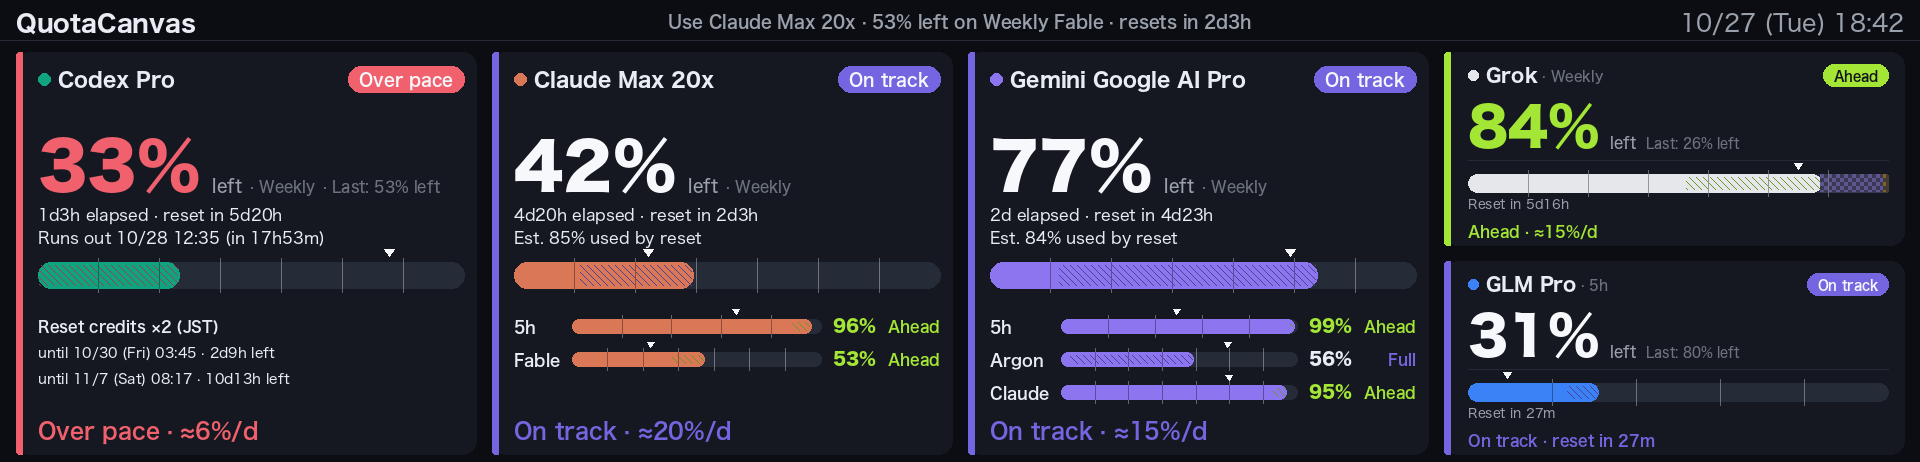
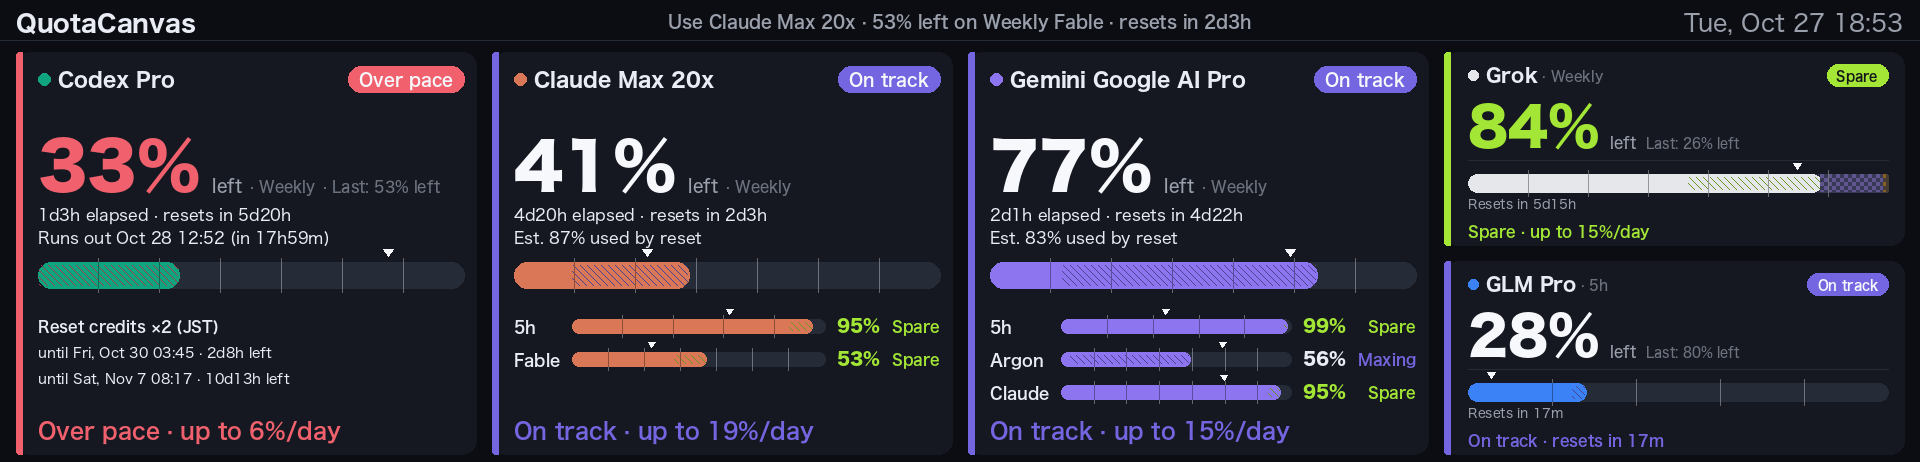
英語表示の状態名・日付・アドバイスを、英語圏の読み手に誤解されない表記にする
変更理由:
英語表示に日本語からの直訳が残っていた。「余裕あり」の Ahead は英語では「ペースより先行＝使いすぎ」と
逆に読まれうる。「使い切り」の Full は「満杯・上限到達」と読まれる。日付の 11/7 (Sat) はイギリス式では
7 月 11 日と読まれ、≈6%/d は「1 日 6% までに抑える」という上限の意味が伝わらなかった。

変更内容:
- 状態名: Ahead → Spare、Full use / Full → Maxing out / Maxing
- reset in / Reset in → resets in / Resets in（ヘッダーの表記とそろえる）
- アドバイス: ≈6%/d → up to 6%/day、1d 12% → 12%/day、"last 12% is free" / "12% free" → "12% unused"
- 日付: 英語のときだけ "Fri, Oct 30 03:45" / "Oct 28 12:35" 形式（月名と書式を locale の [month] / [date] に持たせ、
  日本語は従来と同じ "10/30 (金) 03:45" を出す）
- 英語の日付と月名のテストを追加
- README の表示例（docs/images/sample-ja.png / sample-en.png）を同じ時刻で描き直し

検証:
- .venv/bin/python -m pytest -q（別作業中の tests/test_routing_hook.py を除く）: 863 件成功、2 件スキップ
- scripts/preview_render.py --lang en の全パターンと実データの描画で、はみ出し・重なりがないことを目視確認
- GPT-6.1 Terra が実装し、GLM-5.3 がレビュー（日本語表示が以前とバイト単位で同じことを含め問題なし。
  軽微な指摘 1 件「up to ≈」の二重表現を修正）

diff --git a/tests/test_i18n_render.py b/tests/test_i18n_render.py
@@ -18,7 +18,8 @@ from quotacanvas import i18n
 from quotacanvas.models import (Pace, PaceStatus, ProviderUsage, ResetCredit,
                                 Window)
 from quotacanvas.pacing import compute_pace
-from quotacanvas.render import (PanelSpec, advice_text, render, render_error)
+from quotacanvas.render import (PanelSpec, _fmt_clock, _fmt_dt, _fmt_dt_short,
+                                _fmt_time_short, advice_text, render, render_error)
 
 NOW = datetime(2026, 10, 24, 9, 0, 0, tzinfo=timezone.utc)
 NOW_L = NOW.astimezone()
@@ -134,6 +135,35 @@ def test_en_advice_texts_have_no_japanese():
     assert len(texts) == 140   # 全 7 ステータス × 2 枠 × 5 状態 × compact 2
     leaked = sorted({s for s in texts if _has_japanese(s)})
     assert leaked == [], "en の advice に日本語が混ざっている: %s" % leaked
+
+
+def test_dates_follow_display_language(monkeypatch):
+    monkeypatch.setattr("quotacanvas.render._local", lambda dt: dt)
+    monkeypatch.setattr(i18n, "_current", "en")
+    dt = datetime(2026, 10, 30, 3, 45, tzinfo=timezone.utc)
+    assert _fmt_clock(dt) == _fmt_dt(dt) == "Fri, Oct 30 03:45"
+    assert _fmt_dt_short(dt) == "Oct 30 03:45"
+    assert _fmt_time_short(dt, dt - timedelta(days=1)) == "Oct 30 03:45"
+    assert _fmt_time_short(dt, dt) == "03:45"
+    assert _fmt_dt(datetime(2026, 11, 7, 3, 45)) == "Sat, Nov 7 03:45"
+    assert [_fmt_dt_short(datetime(2026, month, 1)).split()[0]
+            for month in range(1, 13)] == [
+                "Jan", "Feb", "Mar", "Apr", "May", "Jun", "Jul", "Aug",
+                "Sep", "Oct", "Nov", "Dec"]
+    i18n.set_language("ja")
+    assert _fmt_clock(dt) == _fmt_dt(dt) == "10/30 (金) 03:45"
+    assert _fmt_dt_short(dt) == "10/30 03:45"
+
+
+def test_en_status_and_advice_wording(monkeypatch):
+    monkeypatch.setattr(i18n, "_current", "en")
+    assert i18n.t("render.badge.spare") == "Spare"
+    assert i18n.t("render.badge.tight") == "Maxing out"
+    assert i18n.t("render.badge_short.fresh") == "Spare"
+    assert i18n.t("render.badge_short.tight") == "Maxing"
+    assert i18n.t("render.advice.compact_per_day", pct=6) == "up to 6%/day"
+    assert i18n.t("render.advice.exhausted_reset", span="3h") == \
+        "Limit hit · resets in 3h"
 
 
 def test_ja_advice_texts_are_japanese_not_keys():

diff --git a/src/quotacanvas/render.py b/src/quotacanvas/render.py
@@ -103,6 +103,8 @@ def _brand_color(colors, provider):
 # 描画時に言語が決まる文字列はモジュール読み込み時に確定させない:
 # 定数は文言キーだけ持ち、描画時に t() で解決する
 _WEEKDAYS = ("mon", "tue", "wed", "thu", "fri", "sat", "sun")
+_MONTHS = ("jan", "feb", "mar", "apr", "may", "jun", "jul", "aug",
+           "sep", "oct", "nov", "dec")
 
 
 def _weekday(dt):
@@ -338,16 +340,15 @@ def _local(dt):
 
 
 def _fmt_clock(dt):
-    """Header style: 10/24 (土) 20:35"""
-    l = _local(dt)
-    return "%d/%d (%s) %02d:%02d" % (l.month, l.day, _weekday(l),
-                                     l.hour, l.minute)
+    """Header date and time in the display language."""
+    return _fmt_dt(dt)
 
 
 def _fmt_dt(dt):
     l = _local(dt)
-    return "%d/%d (%s) %02d:%02d" % (l.month, l.day, _weekday(l),
-                                     l.hour, l.minute)
+    return t("render.date.full", weekday=_weekday(l),
+             month=t("render.month." + _MONTHS[l.month - 1]), day=l.day,
+             hour=l.hour, minute=l.minute)
 
 
 def _fmt_span(td):
@@ -404,7 +405,8 @@ def _tz_label(now):
 def _fmt_dt_short(dt):
     """10/30 03:45 (曜日なしの短い形、コンパクト表示用)"""
     l = _local(dt)
-    return "%d/%d %02d:%02d" % (l.month, l.day, l.hour, l.minute)
+    return t("render.date.short", month=t("render.month." + _MONTHS[l.month - 1]),
+             day=l.day, hour=l.hour, minute=l.minute)
 
 
 def _fmt_time_short(dt, now=None):
